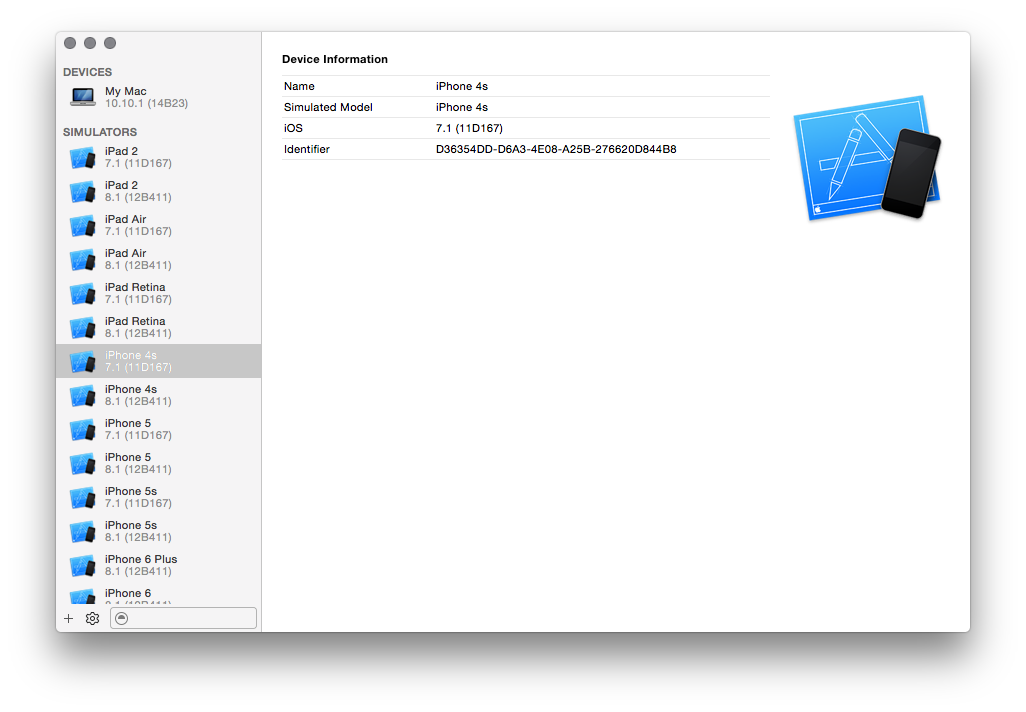
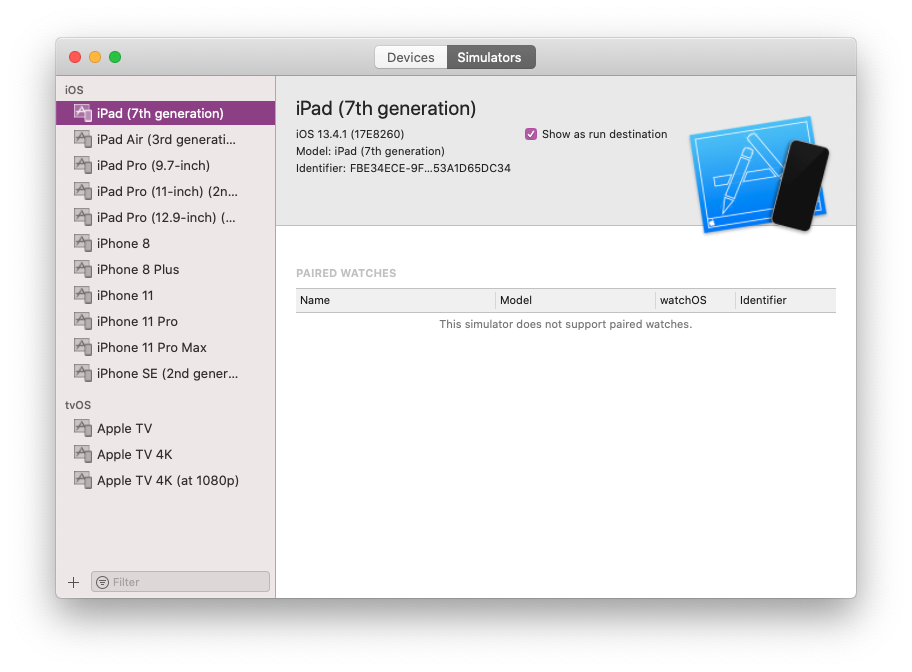
Fix MicrosoftDocs/appcenter-docs#920
Update screenshots and minor changes to selecting a simulator

Changed region(s): [[0.0307, 0.0312, 0.9518, 0.9375], [0.4912, 0.4375, 0.8596, 0.5], [0.307, 0.375, 0.4298, 0.4688]]

diff --git a/docs/test-cloud/uitest/working-with-ios-simulator.md b/docs/test-cloud/uitest/working-with-ios-simulator.md
@@ -4,8 +4,7 @@ description: This guide will discuss how to identify and select an iOS simulator
 keywords: uitest test cloud
 author: oddj0b
 ms.author: vigimm
-ms.reviewer: crdun
-ms.date: 10/26/2018
+ms.date: 05/01/2020
 ms.topic: article
 ms.assetid: 6E970422-40FB-4E2C-ACAD-07A5E47B3378
 ms.service: vs-appcenter
@@ -58,11 +57,11 @@ There are two ways to list the simulators and their device identifiers:
    iPhone 6 Plus (8.1 Simulator) [AB1C20F6-BFFC-4C80-879C-F19A7E3F0B5C]
    ```
 
-2. Xcode provides another way to obtain a list of devices and their device identifiers. Once Xcode is running, select **Window > Devices**:
+2. Xcode provides another way to obtain a list of devices and their device identifiers. Once Xcode is running, select **Window > Devices and Simulators**:
 
 ![Device Identifiers for simulator images](./images/working-with-ios-simulator-01-sml.png)]
 
-Xcode will present a window showing the simulators installed on the computer. When a simulator is selected the device identifier can be seen in the right hand side of the window:
+Xcode will present a window showing attached devices, select Simulators top in the windows to see installed simulators. When a simulator is selected the device identifier can be seen in the right hand side of the window:
 
 [ ![Selecting a simulator](./images/working-with-ios-simulator-02-sml.png)](./images/working-with-ios-simulator-02.png#lightbox)
 
